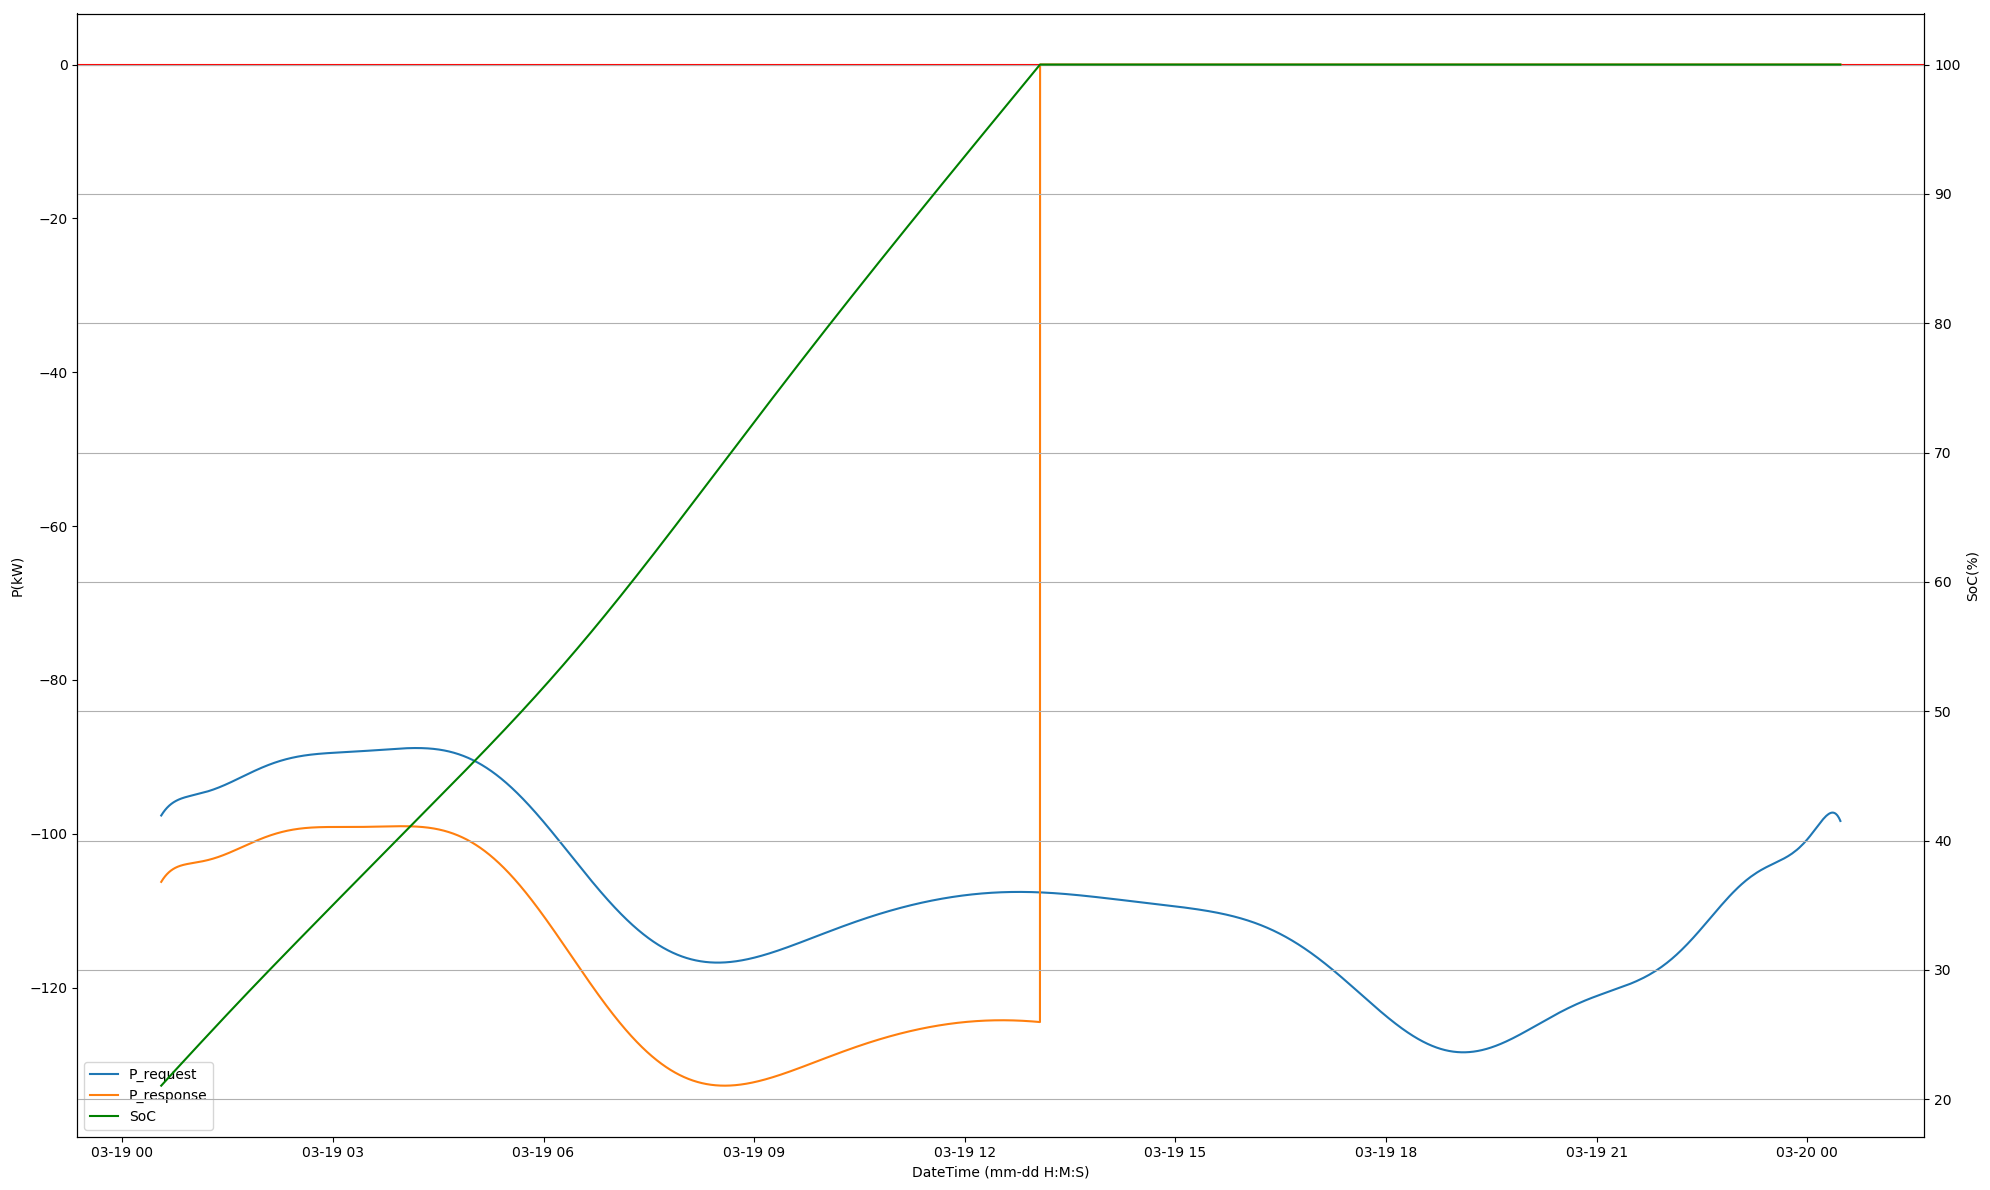
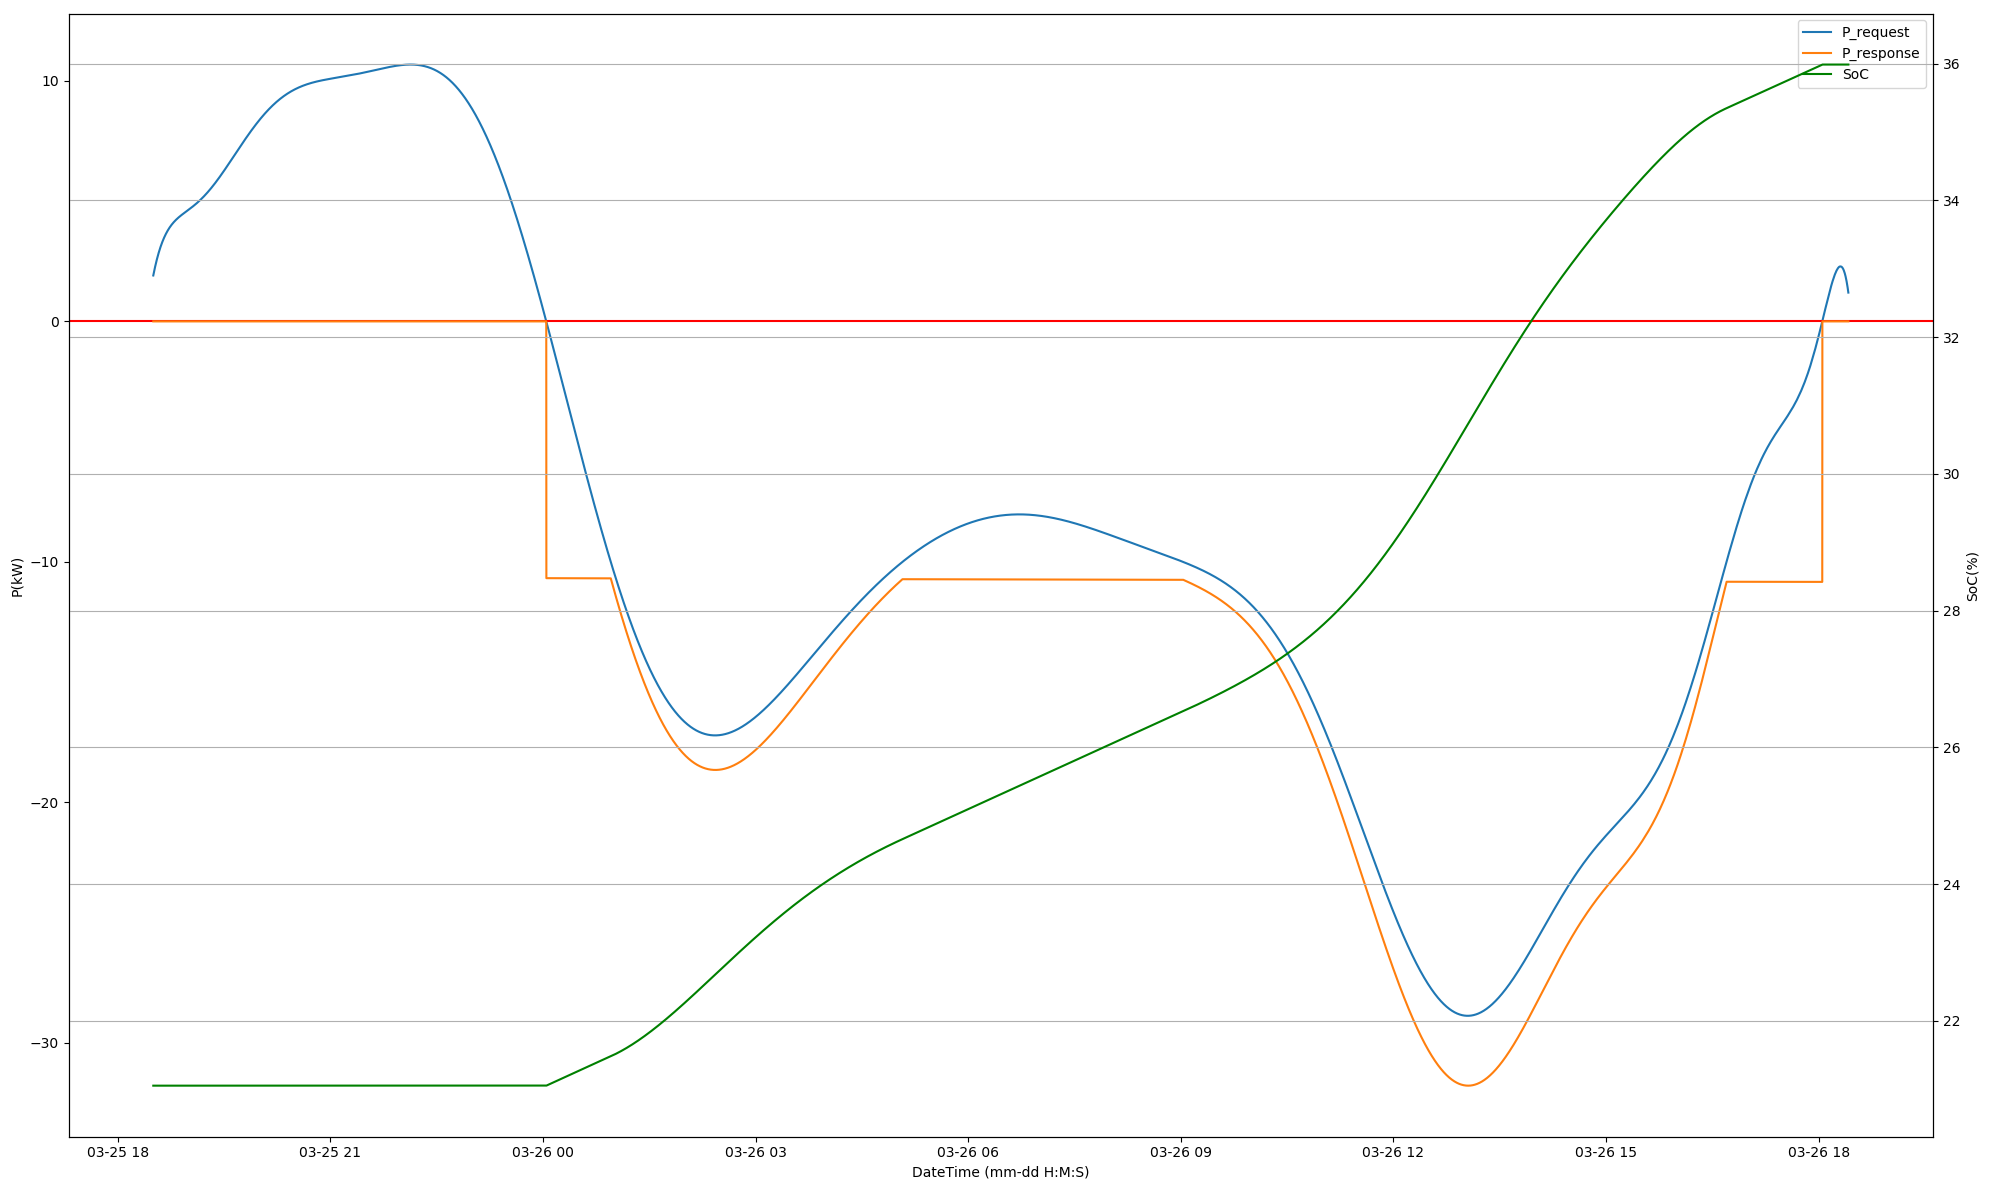
Add files via upload
Updated Electrolyzer model with forcast method and impact metrics logging.

diff --git a/src/fleets/electrolyzer_fleet/ey_fleet.py b/src/fleets/electrolyzer_fleet/ey_fleet.py
@@ -12,6 +12,7 @@ from fleet_interface import FleetInterface
 from fleet_response  import FleetResponse
 from csv import writer
 simplefilter('ignore', RankWarning)
+filterwarnings("ignore", category=RuntimeWarning)
 colorama.init()
 
 
@@ -32,7 +33,7 @@ class ElectrolyzerFleet(FleetInterface):
         # Not being used in the present scenario to provide grid services
         self.grid = grid_info
 
-        if not p_req_load:
+        if p_req_load:
             self.load_curve = True
         else:
             self.load_curve = False
@@ -88,7 +89,7 @@ class ElectrolyzerFleet(FleetInterface):
         self.ey_x01 = float(self.config.get(mdl_type, "x0_1", fallback=1.6))
         self.ey_x02 = float(self.config.get(mdl_type, "x0_2", fallback=80))
         self.ey_Pmin_fleet = float(self.config.get(mdl_type, "Pmin_fleet", fallback=30))
-        self.ey_Pmax_fleet = float(self.config.get(mdl_type, "Pmax_fleet", fallback=240))
+        self.ey_Pmax_fleet = float(self.config.get(mdl_type, "Pmax_fleet", fallback=130))
         self.ey_At = float(self.config.get(mdl_type, "At", fallback=47))
         self.ey_len = float(self.config.get(mdl_type, "len", fallback=2.54))
         self.ey_Phi_0 = float(self.config.get(mdl_type, "Phi_0", fallback=5.9e-5))
@@ -112,6 +113,8 @@ class ElectrolyzerFleet(FleetInterface):
         self.ey_I = 0
         self.V_graph = 0
         self.Id = 0
+        # Set the operating range for the Electrolyzer fleet - 30kW <= Pe <= 130kW
+        self.P_opt = lambda p_req, p_min, p_max: max(p_min, min(p_max, p_req))
         self.DG = self.ey_DG_25-(self.ey_T-25)/55*(self.ey_DG_25-self.ey_DG_80)
         self.V_rev = self.DG/self.ey_ne0/self.ey_F
         self.V_init = round(self.V_rev, 2)
@@ -121,13 +124,11 @@ class ElectrolyzerFleet(FleetInterface):
         self.min_charge = self.ey_charge_lvl_min*1e-2*self.ey_Pe_out
         # max. state of charge in the hydrogen tank
         self.max_charge = self.ey_charge_lvl_max*1e-2*self.ey_Pe_out
-        # SOC initial
-        #self.soc_i = self.ey_soc_lvl_init*1e-2*self.ey_Pe_out
-        #self.soc = 0
-        # moles[0][0] = n_i
         # Initial state of charge (pressure) in the tank
         self.P_tank = self.min_charge
+        # SOC initial
         self.soc = self.P_tank
+        self.soc_age = self.P_tank
         # Initial number of H2 moles in the tank
         self.ni = self.P_tank*self.ey_V_tank/self.ey_R/(self.ey_T+273.15)
         # initial moles w/o ageing
@@ -145,47 +146,49 @@ class ElectrolyzerFleet(FleetInterface):
             # Compute the optimum number of Electrolyzers
             self.ey_Ne = ne_calc(join(self.base_path, self.ey_pdat), self.ey_E_size, self.ey_Ne)
         # Output metrics dataframe
-        self.metrics = [['ts', 'P_tank', 'moles', 'moles_age', 'eta_ch', 'P_tot', 'soc']]
+        self.metrics = [['ts', 'V_ideal', 'V_age', 'ne_ideal', 'ne_age', 'Soc_ideal', 'Soc_age', 'Lka_H2', 'nch']]
         self.inc = 0
 
     def process_request(self, fleet_request):
         resp = self.run_ey_fleet(fleet_request.ts_req, fleet_request.sim_step, fleet_request.P_req)
         return resp
 
+    def forecast(self, requests):
+        soc_state, soc_state_age = self.soc, self.soc_age
+        resp = [self.run_ey_fleet(req.ts_req, req.sim_step, req.P_req) for req in requests]
+        self.soc, self.soc_age = soc_state, soc_state_age
+        return resp
+
     def run_ey_fleet(self, ts, sim_step, Preq):
+        """
+        :param ts: Request created for current time-step: datetime
+        :param sim_step: Request for simulation time-step: timedelta object
+        :param Preq: Request for current real power request
+        :return resp: Fleet response object
+        """
         resp = FleetResponse()
 
         if self.P_tank >= self.max_charge:
-            is_avail, resp.ey_fleet, P_tot, self.soc, ne, nf, V, Ir, eta_ch = 0, 0, 0.0, 1.0, 0.0, 0.0, 0.0, 0.0, 0.0
+            is_avail, resp.ey_fleet, P_tot, ne, ne_age, nf, V, V_age, Ir, eta_ch = \
+                0, 0, 0.0, 0.0, 0.0, 0.0, 0.0, 0.0, 0.0, 0.0
             self.lka_h2 = self.lka_h2/2*1
         else:
-            if self.load_curve:
+            if self.load_curve and Preq is None:
                 # Power profile (kW)
                 Pl = sum([self.p[j]*(self.inc+1)**(21-j) for j in range(22)])
                 # (W) to power one stack of electrolyzer
                 Pr = 1e3*Pl/self.ey_Ne
-            #else:
-            #    if self.inc == 0:
-            #        self.ey_Ne = round(abs(Preq)/self.ey_E_size, 1)
-            #        cprint("No. of Electrolyzers used is:"+"\t"*5+"%d" % self.ey_Ne, 'green')
-            #    Pr = 1e3*abs(Preq)/self.ey_Ne
-            resp.ey_fleet = int(self.ey_Ne)
-
             # Only respond to negative power request
-            if Preq > 0:
+            elif Preq > 0:
                 Pr = abs(self.ey_Pe_base)*1e3/self.ey_Ne
                 is_avail = 0
             else:
                 # Check if Preq is within operational range in kW
                 # Fleet size remains constant
-                if abs(Preq) <= self.ey_Pmin_fleet:
-                    Preq = self.ey_Pmin_fleet
-                elif abs(Preq) > self.ey_Pmax_fleet:
-                    Preq = self.ey_Pmax_fleet
-                else:
-                    pass
+                Preq = self.P_opt(abs(Preq), self.ey_Pmin_fleet, self.ey_Pmax_fleet)
                 Pr = abs(Preq)*1e3/self.ey_Ne   # Watts
                 is_avail = 1
+            resp.ey_fleet = int(self.ey_Ne)
             # Compute voltage and current for 1 Electrolyzer stack
             V, Ir = fsolve(vi_calc, [self.ey_x01, self.ey_x02],
                                      args=(Pr, self.ey_Nc, self.V_rev, self.ey_T,
@@ -225,7 +228,6 @@ class ElectrolyzerFleet(FleetInterface):
 
             # Total power demanded from the grid in Watts
             P_tot = W_c*1e3+P
-
             # Storage Tank
             # Number of moles in time i in the system of tanks
             self.moles += Qh2_m*1
@@ -244,9 +246,7 @@ class ElectrolyzerFleet(FleetInterface):
             eta_ch = self.ey_LHV_H2*m_dotH2*1e3/P_tot          # (W/W)
 
             self.soc = self.P_tank/self.max_charge
-
-        self.metrics.append([str(ts), str(self.P_tank), str(self.moles), str(self.moles_age),
-                             str(eta_ch*1e2), str(P_tot), str(self.soc*1e2)])
+            self.soc_age = self.moles_age/self.ey_Nt*self.ey_R*(self.ey_T+273.15)/self.ey_V_tank/self.max_charge
         self.inc += 1
 
         # Response
@@ -287,6 +287,11 @@ class ElectrolyzerFleet(FleetInterface):
         resp.Ir = Ir
         resp.ne = ne*1e2
         resp.nf = nf*1e2
+
+        # Impact metrics
+        self.metrics.append([str(ts), str(V), str(V_age), str(ne),
+                             str(ne_age), str(resp.E), str(self.soc_age*1e2),
+                             str(self.lka_h2), str(resp.Eff_charge)])
 
         # Print Soc every 5 secs.
         if self.inc % 5000 == 0:

diff --git a/src/fleets/electrolyzer_fleet/test.py b/src/fleets/electrolyzer_fleet/test.py
@@ -67,15 +67,15 @@ def fleet_test2(fleet):
 
     # Power direction wrt the Grid.
     # Ey is negative power to grid
-    p_req = -p_data['PP']
+    p_req = p_data['PP']
 
     # base load of 20% of initial power requirement
     #bload = p_req[0]*0.2
     #p_curve = [bload if v < 0 else abs(v)-bload for _, v in enumerate(p_req)]
 
     # Power curve to have both negative and positive
-    #bload = p_req[0] * 0.2
-    p_curve = p_req#[bload if v < 0 else -(abs(v) - bload - 80) for _, v in enumerate(p_req)]
+    bload = p_req[0] * 0.2
+    p_curve = [bload if v < 0 else -(abs(v) - bload - 80) for _, v in enumerate(p_req)]
 
     # Create fleet request
     ts = datetime.utcnow()
@@ -97,6 +97,13 @@ def fleet_test2(fleet):
         ts.append(fleet_response.ts)
         status.append(fleet_response.status)
         fleetsize.append(fleet_response.ey_fleet)
+
+    # Forecast
+    forecast_fleet = fleet.forecast(fleet_request)
+    p_response, energy_stored = [], []
+    for i in range(len(forecast_fleet)):
+        p_response.append(forecast_fleet[i].P_togrid)
+        energy_stored.append(forecast_fleet[i].E)
 
     # Simulation results
     stat = "fully charged at %s sec." % str(sum(status))

diff --git a/src/fleets/electrolyzer_fleet/_load.py b/src/fleets/electrolyzer_fleet/_load.py
@@ -2,7 +2,7 @@
 # !/usr/bin/env python3
 import sys
 from os.path import dirname, abspath, join
-from warnings import simplefilter
+from warnings import simplefilter, filterwarnings
 try:
     import colorama
 except ImportError:
